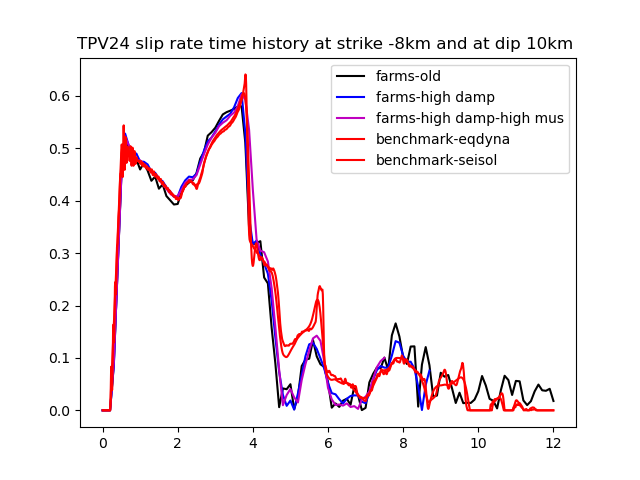
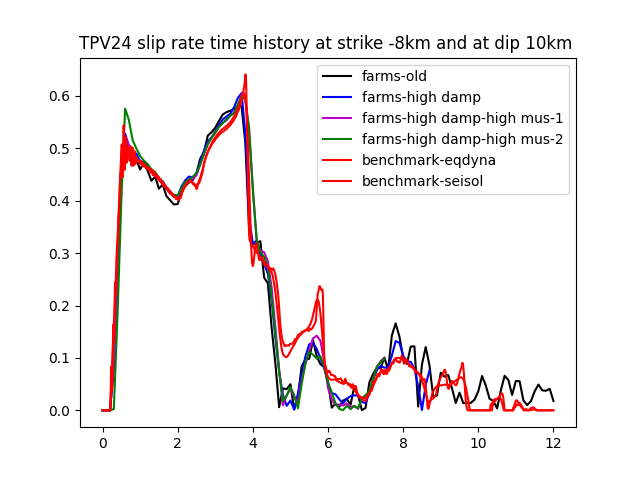
add large mu_s and make traction vector = 0 for this location cluster

diff --git a/postprocess/tpv24/datacompare.py b/postprocess/tpv24/datacompare.py
@@ -25,6 +25,10 @@ slip_strikem8dip10_new = np.loadtxt("./farms_data/jun11/slip.txt",skiprows=1)
 sliprate_strikem8dip10_new2 = np.loadtxt("./farms_data/jun13/sliprate.txt",skiprows=1)
 slip_strikem8dip10_new2 = np.loadtxt("./farms_data/jun13/slip.txt",skiprows=1)
 
+#
+sliprate_strikem8dip10_new3 = np.loadtxt("./farms_data/jun14/sliprate.txt",skiprows=1)
+slip_strikem8dip10_new3 = np.loadtxt("./farms_data/jun14/slip.txt",skiprows=1)
+
 sliprate_strikem8dip5 = np.loadtxt("./farms_data/sliprate_strikem8_dip5.txt",skiprows=1)
 slip_strikem8dip5 = np.loadtxt("./farms_data/slip_strikem8_dip5.txt",skiprows=1)
 
@@ -50,7 +54,8 @@ if plot_strikem8dip10:
     plt.figure()
     plt.plot(time,slip_strikem8dip10,'k-',label="farms-old")
     plt.plot(time[:88],slip_strikem8dip10_new,'b-',label="farms-high damp")
-    plt.plot(time[:76],slip_strikem8dip10_new2,'m-',label="farms-high damp-high mus")
+    plt.plot(time[:76],slip_strikem8dip10_new2,'m-',label="farms-high damp-high mus-1")
+    plt.plot(time[:76],slip_strikem8dip10_new3,'g-',label="farms-high damp-high mus-2")
     plt.plot(strikem8dip10[:,0],strikem8dip10[:,1],'r-',label="benchmark-eqdyna")
     plt.plot(strikem8dip10_2[:,0],2*strikem8dip10_2[:,1],'r-',label="benchmark-seisol")
     plt.title("TPV24 slip time history at strike -8km and at dip 10km ")
@@ -62,7 +67,8 @@ if plot_strikem8dip10:
     plt.figure()
     plt.plot(time,sliprate_strikem8dip10,'k-',label="farms-old")
     plt.plot(time[:88],sliprate_strikem8dip10_new,'b-',label="farms-high damp")
-    plt.plot(time[:76],sliprate_strikem8dip10_new2,'m-',label="farms-high damp-high mus")
+    plt.plot(time[:76],sliprate_strikem8dip10_new2,'m-',label="farms-high damp-high mus-1")
+    plt.plot(time[:76],sliprate_strikem8dip10_new3,'g-',label="farms-high damp-high mus-2")
     plt.plot(strikem8dip10[:,0],strikem8dip10[:,2],'r-',label="benchmark-eqdyna")
     plt.plot(strikem8dip10_2[:,0],strikem8dip10_2[:,2],'r-',label="benchmark-seisol")
     plt.title("TPV24 slip rate time history at strike -8km and at dip 10km ")

diff --git a/src/materials/slipweakening/SlipWeakeningMultifaults3D.C b/src/materials/slipweakening/SlipWeakeningMultifaults3D.C
@@ -275,6 +275,13 @@ SlipWeakeningMultifaults3D::computeInterfaceTractionAndDerivatives()
   traction(1) = -T1+T1_o; 
   traction(2) = -T3+T3_o;
 
+  //
+  if ( mu > 10 ){
+    traction(0) = 0.0; 
+    traction(1) = 0.0; 
+    traction(2) = 0.0;
+  }
+
   _interface_traction[_qp] = traction;
   _dinterface_traction_djump[_qp] = 0;
 

diff --git a/src/functions/slipweakening3d/InitialStaticFrictionCoeff.C b/src/functions/slipweakening3d/InitialStaticFrictionCoeff.C
@@ -30,7 +30,7 @@ InitialStaticFrictionCoeff::value(Real /*t*/, const Point & p) const
 
   //Parameter
   if ( z_coord < -15000 || x_coord < -16000 || x_coord > 12000 || ( x_coord > 10392.5 && y_coord < -6000 ) ){
-    mu_s = 1000;
+    mu_s = 1e12;
   }
   else{
     mu_s = 0.18;
